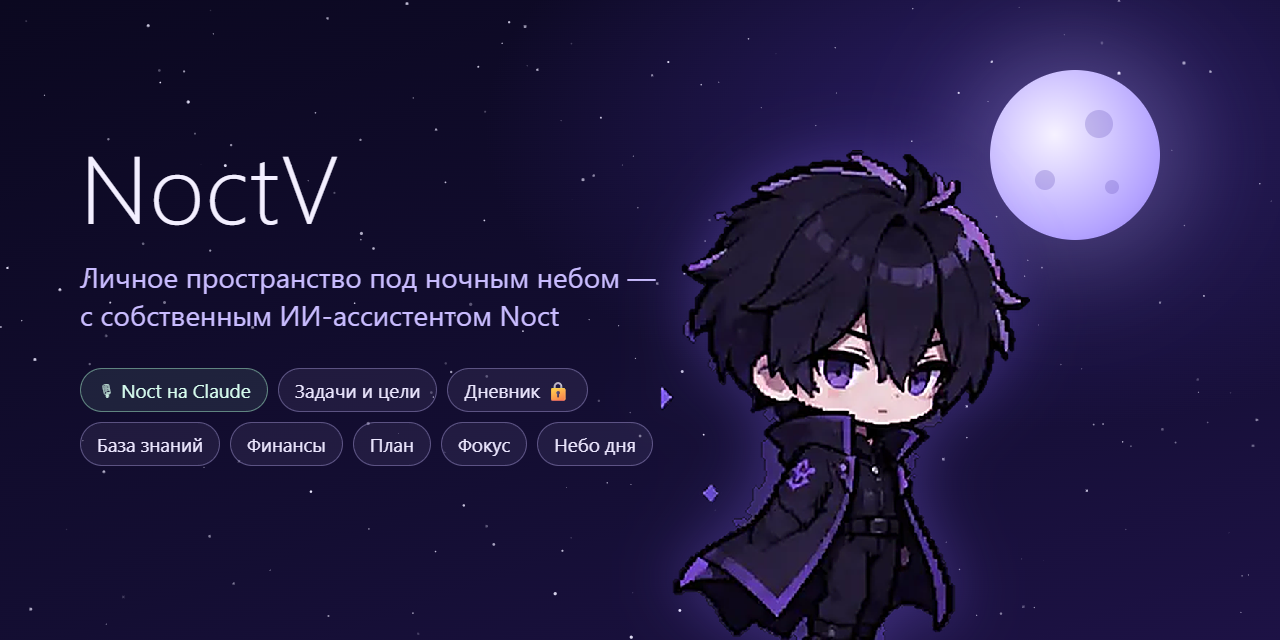
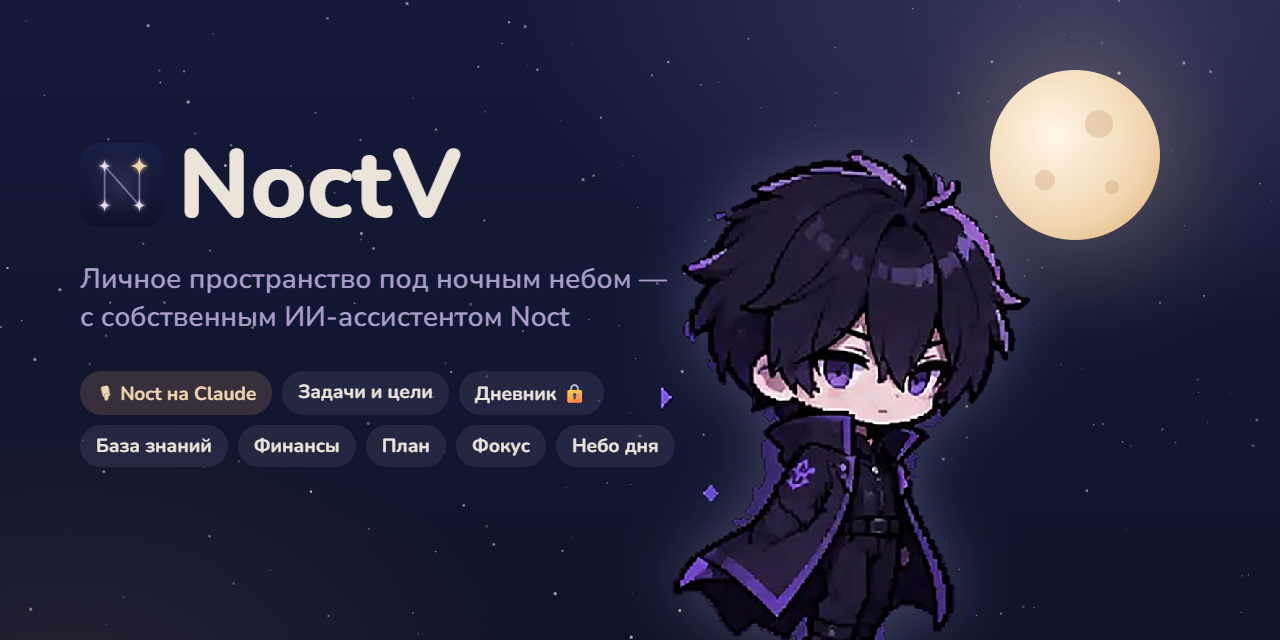
README: «Сумерки» 2.1 — новая иконка и баннер, история проекта

diff --git a/HISTORY.md b/HISTORY.md
@@ -1,0 +1,104 @@
+<div align="center">
+
+<img src="docs/logo-dark.png" width="120" alt="NoctV" />
+
+# 🌙 История NoctV
+
+**От первого коммита до «Сумерек» — 29 ночей**
+
+<sub>12 октября 2026 → 10 ноября 2026</sub>
+
+</div>
+
+<br/>
+
+<table>
+<tr>
+<td align="center" width="25%"><h2>29</h2>дней от идеи<br/>до версии 2.0</td>
+<td align="center" width="25%"><h2>170+</h2>выпущенных<br/>версий</td>
+<td align="center" width="25%"><h2>~42 500</h2>строк кода</td>
+<td align="center" width="25%"><h2>71%</h2>коммитов сделано<br/>между полуночью и 6 утра</td>
+</tr>
+</table>
+
+<br/>
+
+## 🖤 Об авторе
+
+<table>
+<tr>
+<td width="60%" valign="top">
+
+**NoctV** — автор идеи, дизайн-решений и главный пользователь программы. Ереван, ночь, тишина — и это видно даже по статистике: самый частый час коммитов — **3 часа ночи**, на втором месте — 2 часа.
+
+- 🌌 **Ночь — стихия автора.** Отсюда и название: *Noct* — от латинского *nox, noctis* — «ночь». Весь проект — небо, луна, звёзды и тишина.
+- 🎨 **Облик Noct придуман автором.** Персонаж ассистента в версии 1.19 нарисован по собственному дизайну NoctV.
+- 👑 **Девиз:** *«Night is my kingdom, code is my sword.»*
+- 📜 **Три правила:** делать красиво, выпускать быстро, никогда не останавливаться.
+- 🚀 **Скорость — характер.** Рекорд — **30 версий за один день** (3 ноября 2026).
+- 🧭 **Сначала — для себя.** NoctV закрыт для всех, кроме владельца: это личное пространство, а не продукт на продажу.
+
+</td>
+<td width="40%" valign="top" align="center">
+
+```console
+$ whoami
+NoctV — Yerevan, Armenia.
+I build things that live at night.
+
+$ uptime
+03:00 — peak hour
+```
+
+</td>
+</tr>
+</table>
+
+<br/>
+
+## 🗺 Путь
+
+<table>
+<tr><td width="140"><b>12 окт</b><br/><code>1.0</code></td><td>🌱 <b>Рождение «NoctV OS».</b> Первый коммит, вход через Supabase, задачи и заметки. В тот же день — логотип, иконки для Windows и README.</td></tr>
+<tr><td><b>13–17 окт</b><br/><code>1.1–1.5</code></td><td>📋 Привычки, повторяющиеся задачи, календарь, картинки в дневнике. Чат, друзья, профиль и аниме-рамки — NoctV ненадолго становится социальным.</td></tr>
+<tr><td><b>21 окт</b><br/><code>1.6–1.8</code></td><td>🏰 «Моё королевство», вопрос дня, игры в чате, NoctV Live. Новый мобильный дизайн.</td></tr>
+<tr><td><b>24 окт</b><br/><code>1.9–1.10</code></td><td>🧠 <b>Появляется Noct.</b> Локальный ИИ на ПК, доступ к данным, действия, вызов с телефона. Речь распознаётся через Whisper.<br/>🔐 В тот же день NoctV становится <b>полностью личным</b>: войти может только владелец.</td></tr>
+<tr><td><b>29 окт</b><br/><code>1.11–1.18</code></td><td>🎙 Самый «голосовой» день: память, напоминания голосом, управление ПК, окна и программы, «Эй, Нокт», «Что-то ещё, сэр?», поиск в интернете. <b>8 версий за день.</b></td></tr>
+<tr><td><b>2 ноя</b><br/><code>1.19–1.28</code></td><td>🔭 Новый облик Noct по дизайну автора. Тема <b>«Лунная обсерватория»</b>, страницы на весь экран, плавные свайпы, адаптация под все экраны. Из названия уходит «OS».</td></tr>
+<tr><td><b>3 ноя</b><br/><code>1.29–1.41</code></td><td>⚒ <b>Рекордный день — 30 версий.</b> База знаний «созвездия», ночной курсор со звездой, отдельная программа Noct для друзей, Мастерская с пиксельным редактором и 3D. Мастерскую откатили и вернули по частям в тот же день — правило «лучше меньше, но надёжно».</td></tr>
+<tr><td><b>5–7 ноя</b><br/><code>1.42–1.46</code></td><td>🗺 План-студия со слоями и направляющими, связи между заметками как в Obsidian, задачи по датам, цитата дня.</td></tr>
+<tr><td><b>8 ноя</b><br/><code>1.47–1.53</code></td><td>☁ <b>Облачный мозг.</b> Сначала Google Gemini, через несколько часов — <b>Claude</b> от Anthropic. Noct понимает смысл, а не точные слова. Его проверяют на 43 живых фразах.</td></tr>
+<tr><td><b>9 ноя</b><br/><code>1.54–1.60</code></td><td>🛡 Большая защита всех команд. Затем — <b>день с Noct</b>: брифинг при включении ПК, квесты недели, капсула времени, раздел <b>«Финансы»</b>, забота о сне и фокусе, память, которая запоминает сама, копия памяти под паролем (AES-256), связь телефона и компьютера.</td></tr>
+<tr><td><b>10 ноя</b><br/><code>2.0</code></td><td>🌆 <b>NoctV «Сумерки».</b> Новый вид всей программы: глубокий синий, пыльная лаванда и янтарь. Круговое меню вокруг Noct по Пробелу. Пиксельная крыша с котом под <b>настоящей фазой луны</b>. Дневник-книга под луной. Noct гуляет по карнизу над панелью задач.</td></tr>
+<tr><td><b>10 ноя</b><br/><code>2.1</code></td><td>✦ Новая иконка — «N из звёзд». Экран входа в «Сумерках», новые Цели, Профиль и Музыка, траты одной строкой в Финансах.</td></tr>
+</table>
+
+<br/>
+
+## ✨ Интересные факты
+
+- 🌕 **Луна на Главной настоящая.** Фаза луны над крышей считается по реальной дате. Если сегодня полнолуние, на экране тоже полнолуние.
+- 🧠 **У Noct было три «мозга» за две недели:** локальная модель на ПК → Google Gemini → Claude. Gemini продержался меньше суток.
+- 🗣 **Noct обращается к владельцу «сэр»** и спрашивает «Что-то ещё, сэр?» с версии 1.14.
+- 🔒 **Пароли и номера карт Noct не запоминает** — даже если попросить. Это проверено на живых фразах.
+- 🕵 **Дневник зашифрован**, а память Noct хранится на компьютере, а не в облаке. В облако уходит только копия под паролем.
+- 🐈 **На крыше живёт кот.** Он гуляет вместе с Noct по карнизу над панелью задач.
+- ⌨ **Пробел — главная кнопка.** Он открывает круговое меню, но не срабатывает, пока вы печатаете текст.
+- 📱 **Одна программа — три места:** Windows, браузер и телефон. Данные синхронизируются между ними.
+- 🌙 **Прежний вид не исчез.** «Обсерватория» осталась темой в Настройках.
+
+<br/>
+
+## 🧩 На чём построено
+
+<p align="center">
+<img src="https://skillicons.dev/icons?i=react,vite,electron,nodejs,supabase,postgres,vercel&theme=dark" alt="Стек" />
+</p>
+
+React + Vite · Electron для Windows · PWA для телефона · Supabase (Postgres, Realtime, Edge Functions) · Whisper и Silero для голоса · Claude для облачного мозга Noct.
+
+<br/>
+
+<div align="center">
+<sub>🖤 Night is my kingdom, code is my sword. — <a href="README.md">назад к NoctV</a></sub>
+</div>

diff --git a/README.md b/README.md
@@ -5,7 +5,7 @@
 <br/><br/>
 
 <a href="https://github.com/NoctV/noctv-releases/releases/latest">
-  <img src="https://img.shields.io/badge/⬇%20Скачать%20для%20Windows-8b5cf6?style=for-the-badge&logoColor=white" height="44" alt="Скачать для Windows" />
+  <img src="https://img.shields.io/badge/⬇%20Скачать%20для%20Windows-e0a96d?style=for-the-badge&logoColor=white" height="44" alt="Скачать для Windows" />
 </a>
 &nbsp;
 <a href="https://noctv-os.vercel.app">
@@ -14,7 +14,7 @@
 
 <br/><br/>
 
-[![Последний релиз](https://img.shields.io/github/v/release/NoctV/noctv-releases?style=flat-square&label=версия&color=8b5cf6)](https://github.com/NoctV/noctv-releases/releases/latest)
+[![Последний релиз](https://img.shields.io/github/v/release/NoctV/noctv-releases?style=flat-square&label=версия&color=e0a96d)](https://github.com/NoctV/noctv-releases/releases/latest)
 ![Автообновления](https://img.shields.io/badge/автообновления-включены-0ea5e9?style=flat-square)
 ![Windows 10/11](https://img.shields.io/badge/Windows-10%20%7C%2011-0078D6?style=flat-square&logo=windows&logoColor=white)
 
@@ -24,7 +24,7 @@
 
 ## 🌙 Что это
 
-**NoctV** — моё личное пространство для дел и мыслей в стиле ночного неба. Внутри живёт **Noct** — голосовой ИИ-ассистент на Claude: он управляет компьютером, каждое утро рассказывает план дня, помнит важное и следит, чтобы я вовремя отдыхал и спал.
+**NoctV** — моё личное пространство для дел и мыслей под ночным небом — с версии 2.0 в стиле «Сумерки». Внутри живёт **Noct** — голосовой ИИ-ассистент на Claude: он управляет компьютером, каждое утро рассказывает план дня, помнит важное и следит, чтобы я вовремя отдыхал и спал.
 
 Программа личная: войти в неё может только владелец. Здесь лежат установщики и автообновления.
 
@@ -60,6 +60,10 @@
     </td>
   </tr>
 </table>
+
+## 📜 История
+
+От первого коммита до «Сумерек» за 29 ночей — версии, рекорды, интересные факты и немного об авторе: **[HISTORY.md](HISTORY.md)**.
 
 ## ⬇ Установка
 
